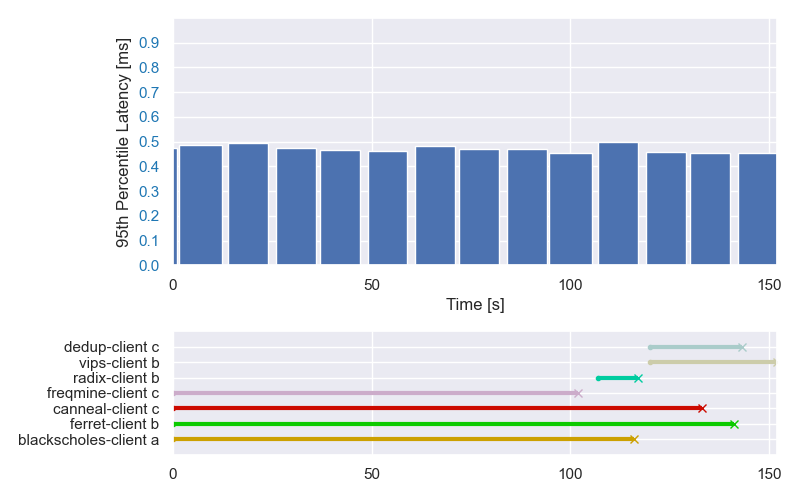
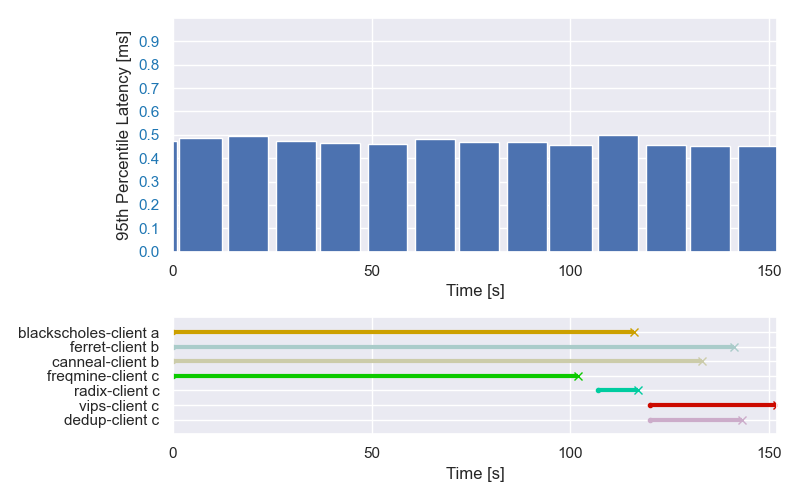
plot things pt2

diff --git a/part3/plot/generate_figure.py b/part3/plot/generate_figure.py
@@ -10,9 +10,9 @@ import matplotlib.patches as mpatches
 
 sns.set_theme()
 
-benchmarks = ['blackscholes', 'ferret', 'canneal','freqmine', 'radix', 'vips', 'dedup' ]
-benchmarks_labels = ['blackscholes-client a', 'ferret-client b', 'canneal-client c', 'freqmine-client c', 'radix-client b', 'vips-client b', 'dedup-client c' ]
-colors = ['#CCA000', '#0CCA00', '#CC0A00', '#CCACCA', '#00CCA0', '#CCCCAA', '#AACCCA']
+benchmarks = ['dedup', 'vips', 'radix','freqmine', 'canneal', 'ferret', 'blackscholes' ]
+benchmarks_labels = ['dedup-client c', 'vips-client c', 'radix-client c','freqmine-client c', 'canneal-client b', 'ferret-client b', 'blackscholes-client a' ]
+colors = ['#CCACCA', '#CC0A00', '#00CCA0', '#0CCA00', '#CCCCAA', '#AACCCA', '#CCA000']
 runtimes_start = {name: [] for name in benchmarks}
 runtimes_end = {name: [] for name in benchmarks}
 
@@ -111,6 +111,7 @@ def create_figures():
         plt_jobs.set_yticks(range(7))
         plt_jobs.set_yticklabels(benchmarks_labels)
         plt_jobs.set_ylim([-1, 7])
+        plt_jobs.set_xlabel("Time [s]")
         plt_jobs.set_xlim([0, length])
         plt_jobs.set_xticks(range(0, length + 1, 50))
         plt_jobs.grid(True)
@@ -192,44 +193,45 @@ def create_unified_figure():
         plt.xticks(range(0, length, 50))
         plt.grid(True)
         plt.ylabel("95th Percentile Latency [ms]")
-        plt.tick_params(axis='y', labelcolor='tab:black')
+        plt.tick_params(axis='y', labelcolor='tab:blue')
         plt.ylim([0, 1.0])
         plt.yticks(np.arange(0, 1.0, 0.1))
         start = get_memcached_start(result_mem["ts_start"],start_sec)
         width = get_memcached_width(result_mem["ts_start"],result_mem["ts_end"])
-        plt.bar(start, result_mem["p95"], align='center', width=width)
+        plt.bar(start, result_mem["p95"], align='center', width=width, color = 'dimgrey')
 
 
-        plt.hlines(y=0.1, xmin=runtimes_start['blackscholes'][i], xmax=runtimes_end['blackscholes'][i], color=colors[0], linewidth=3)
-        plt.plot(runtimes_start['blackscholes'][i],0.1,'.', color=colors[0]) 
-        plt.plot(runtimes_end['blackscholes'][i],0.1,'x', color=colors[0])
+        plt.hlines(y=0.6, xmin=runtimes_start['blackscholes'][i], xmax=runtimes_end['blackscholes'][i], color=colors[6], linewidth=3)
+        plt.plot(runtimes_start['blackscholes'][i],0.6,'.', color=colors[6]) 
+        plt.plot(runtimes_end['blackscholes'][i],0.6,'x', color=colors[6])
         
-        plt.hlines(y=0.2, xmin=runtimes_start['freqmine'][i], xmax=runtimes_end['freqmine'][i], color=colors[1], linewidth=3)
-        plt.plot(runtimes_start['freqmine'][i],0.2,'.', color=colors[1]) 
-        plt.plot(runtimes_end['freqmine'][i],0.2,'x', color=colors[1])
-        plt.hlines(y=0.2, xmin=runtimes_start['canneal'][i], xmax=runtimes_end['canneal'][i], color=colors[5], linewidth=3)
-        plt.plot(runtimes_start['canneal'][i],0.2,'.', color=colors[5]) 
-        plt.plot(runtimes_end['canneal'][i],0.2,'x', color=colors[5])
-        plt.hlines(y=0.2, xmin=runtimes_start['dedup'][i], xmax=runtimes_end['dedup'][i], color=colors[3], linewidth=3)
-        plt.plot(runtimes_start['dedup'][i],0.2,'.', color=colors[3]) 
-        plt.plot(runtimes_end['dedup'][i],0.2,'x', color=colors[3])
+        plt.hlines(y=0.3, xmin=runtimes_start['freqmine'][i], xmax=runtimes_end['freqmine'][i], color=colors[3], linewidth=3)
+        plt.plot(runtimes_start['freqmine'][i],0.3,'.', color=colors[3]) 
+        plt.plot(runtimes_end['freqmine'][i],0.3,'x', color=colors[3])
+        plt.hlines(y=0.4, xmin=runtimes_start['canneal'][i], xmax=runtimes_end['canneal'][i], color=colors[4], linewidth=3)
+        plt.plot(runtimes_start['canneal'][i],0.4,'.', color=colors[4]) 
+        plt.plot(runtimes_end['canneal'][i],0.4,'x', color=colors[4])
+        plt.hlines(y=0.1, xmin=runtimes_start['dedup'][i], xmax=runtimes_end['dedup'][i], color=colors[0], linewidth=3)
+        plt.plot(runtimes_start['dedup'][i],0.1,'.', color=colors[0]) 
+        plt.plot(runtimes_end['dedup'][i],0.1,'x', color=colors[0])
 
-        plt.hlines(y=0.3, xmin=runtimes_start['vips'][i], xmax=runtimes_end['vips'][i], color=colors[2], linewidth=3)
-        plt.plot(runtimes_start['vips'][i],0.3,'.', color=colors[2]) 
-        plt.plot(runtimes_end['vips'][i],0.3,'x', color=colors[2])
-        plt.hlines(y=0.3, xmin=runtimes_start['ferret'][i], xmax=runtimes_end['ferret'][i], color=colors[6], linewidth=3)
-        plt.plot(runtimes_start['ferret'][i],0.3,'.', color=colors[6]) 
-        plt.plot(runtimes_end['ferret'][i],0.3,'x', color=colors[6])
+        plt.hlines(y=0.2, xmin=runtimes_start['vips'][i], xmax=runtimes_end['vips'][i], color=colors[1], linewidth=3)
+        plt.plot(runtimes_start['vips'][i],0.2,'.', color=colors[1]) 
+        plt.plot(runtimes_end['vips'][i],0.2,'x', color=colors[1])
+        plt.hlines(y=0.2, xmin=runtimes_start['radix'][i], xmax=runtimes_end['radix'][i], color=colors[2], linewidth=3)
+        plt.plot(runtimes_start['radix'][i],0.2,'.', color=colors[2]) 
+        plt.plot(runtimes_end['radix'][i],0.2,'x', color=colors[2])
 
-        plt.hlines(y=0.4, xmin=runtimes_start['radix'][i], xmax=runtimes_end['radix'][i], color=colors[4], linewidth=3)
-        plt.plot(runtimes_start['radix'][i],0.4,'.', color=colors[4]) 
-        plt.plot(runtimes_end['radix'][i],0.4,'x', color=colors[4])
+        plt.hlines(y=0.5, xmin=runtimes_start['ferret'][i], xmax=runtimes_end['ferret'][i], color=colors[5], linewidth=3)
+        plt.plot(runtimes_start['ferret'][i],0.5,'.', color=colors[5]) 
+        plt.plot(runtimes_end['ferret'][i],0.5,'x', color=colors[5])
+        
 
         legends_handles = []
         for k, name in enumerate(benchmarks_labels):
             patch = mpatches.Patch(color=colors[k], label=name)
             legends_handles.append(patch)
-        plt.legend(handles=legends_handles)
+        plt.legend(handles=legends_handles, loc = 'upper right')
 
         fig.tight_layout()
         #plt.show()
@@ -243,4 +245,4 @@ def create_unified_figure():
     
 if __name__ == "__main__":
     create_figures()
-    #create_unified_figure()
+    create_unified_figure()
